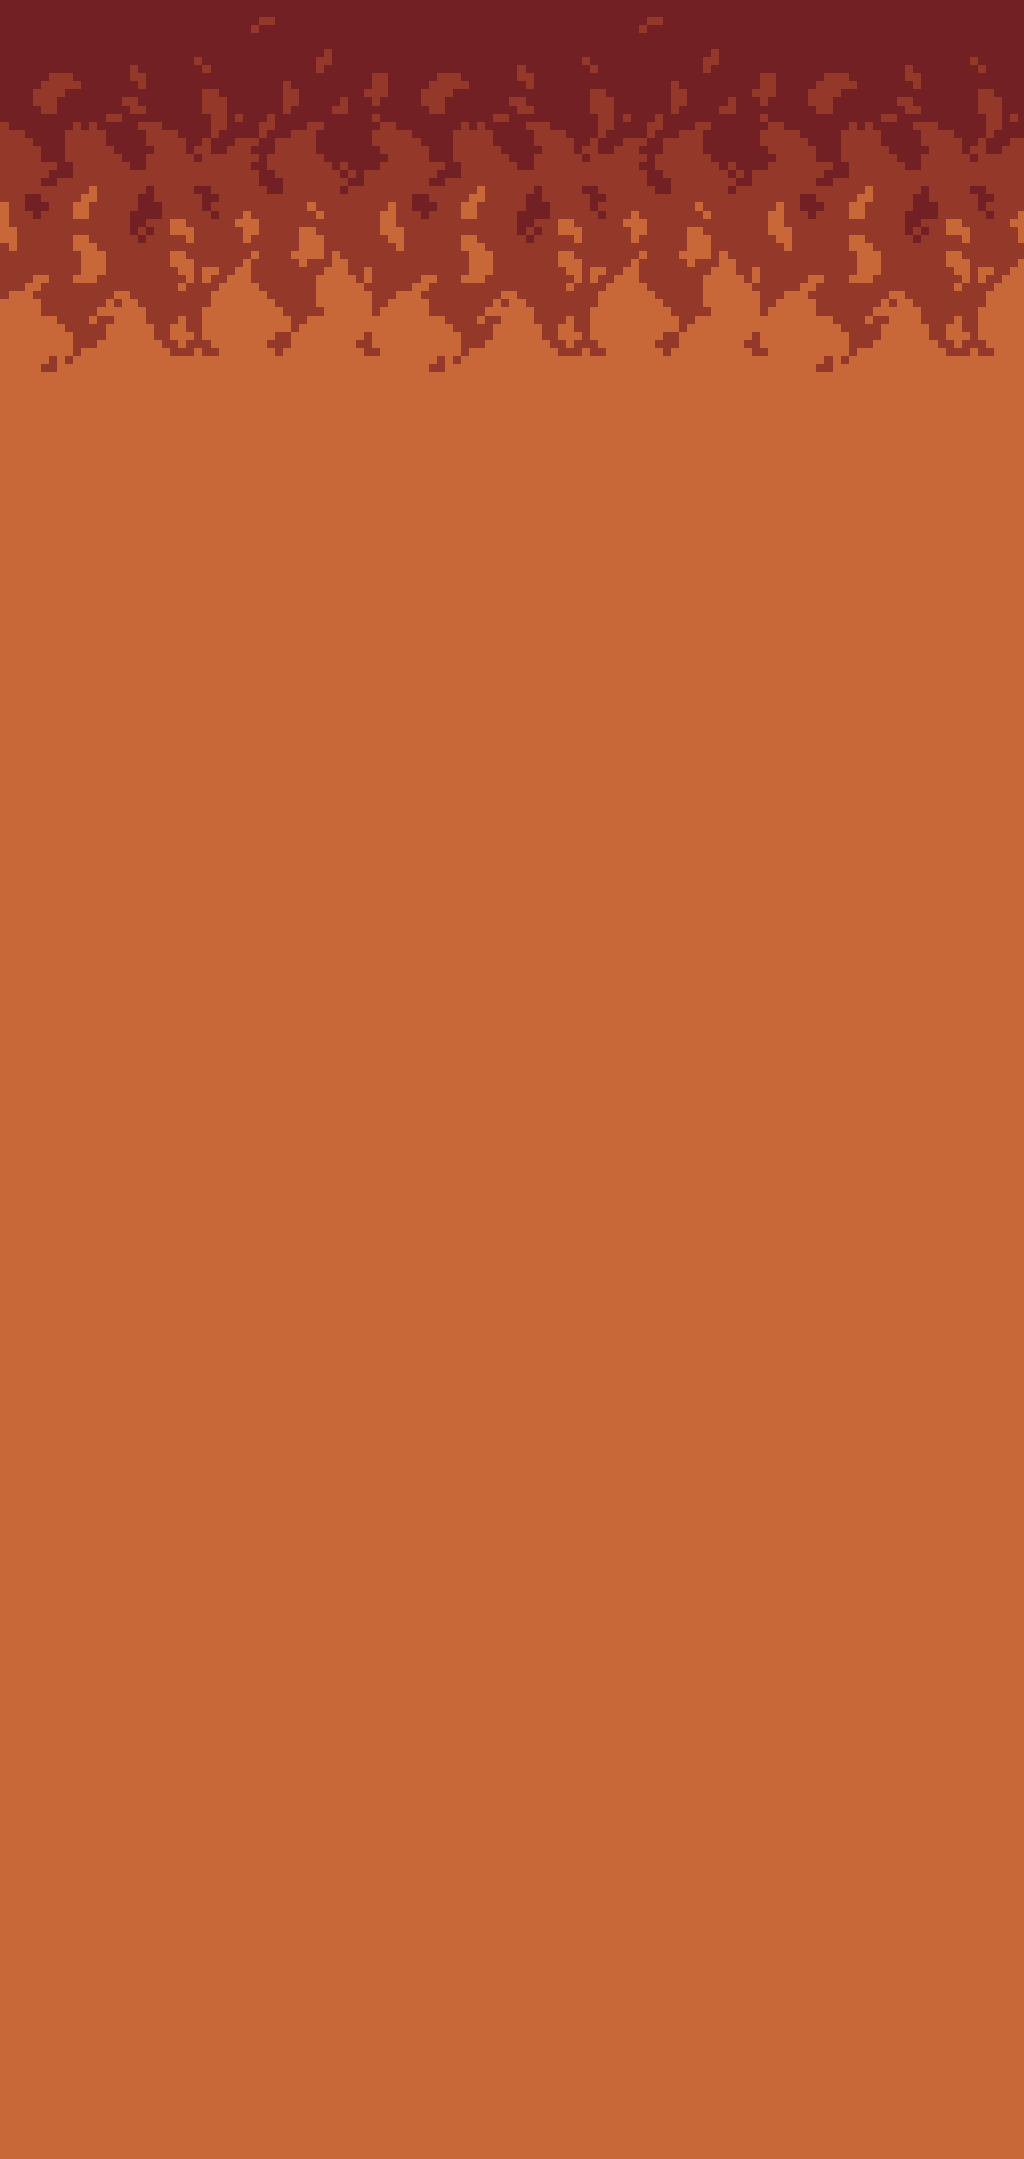
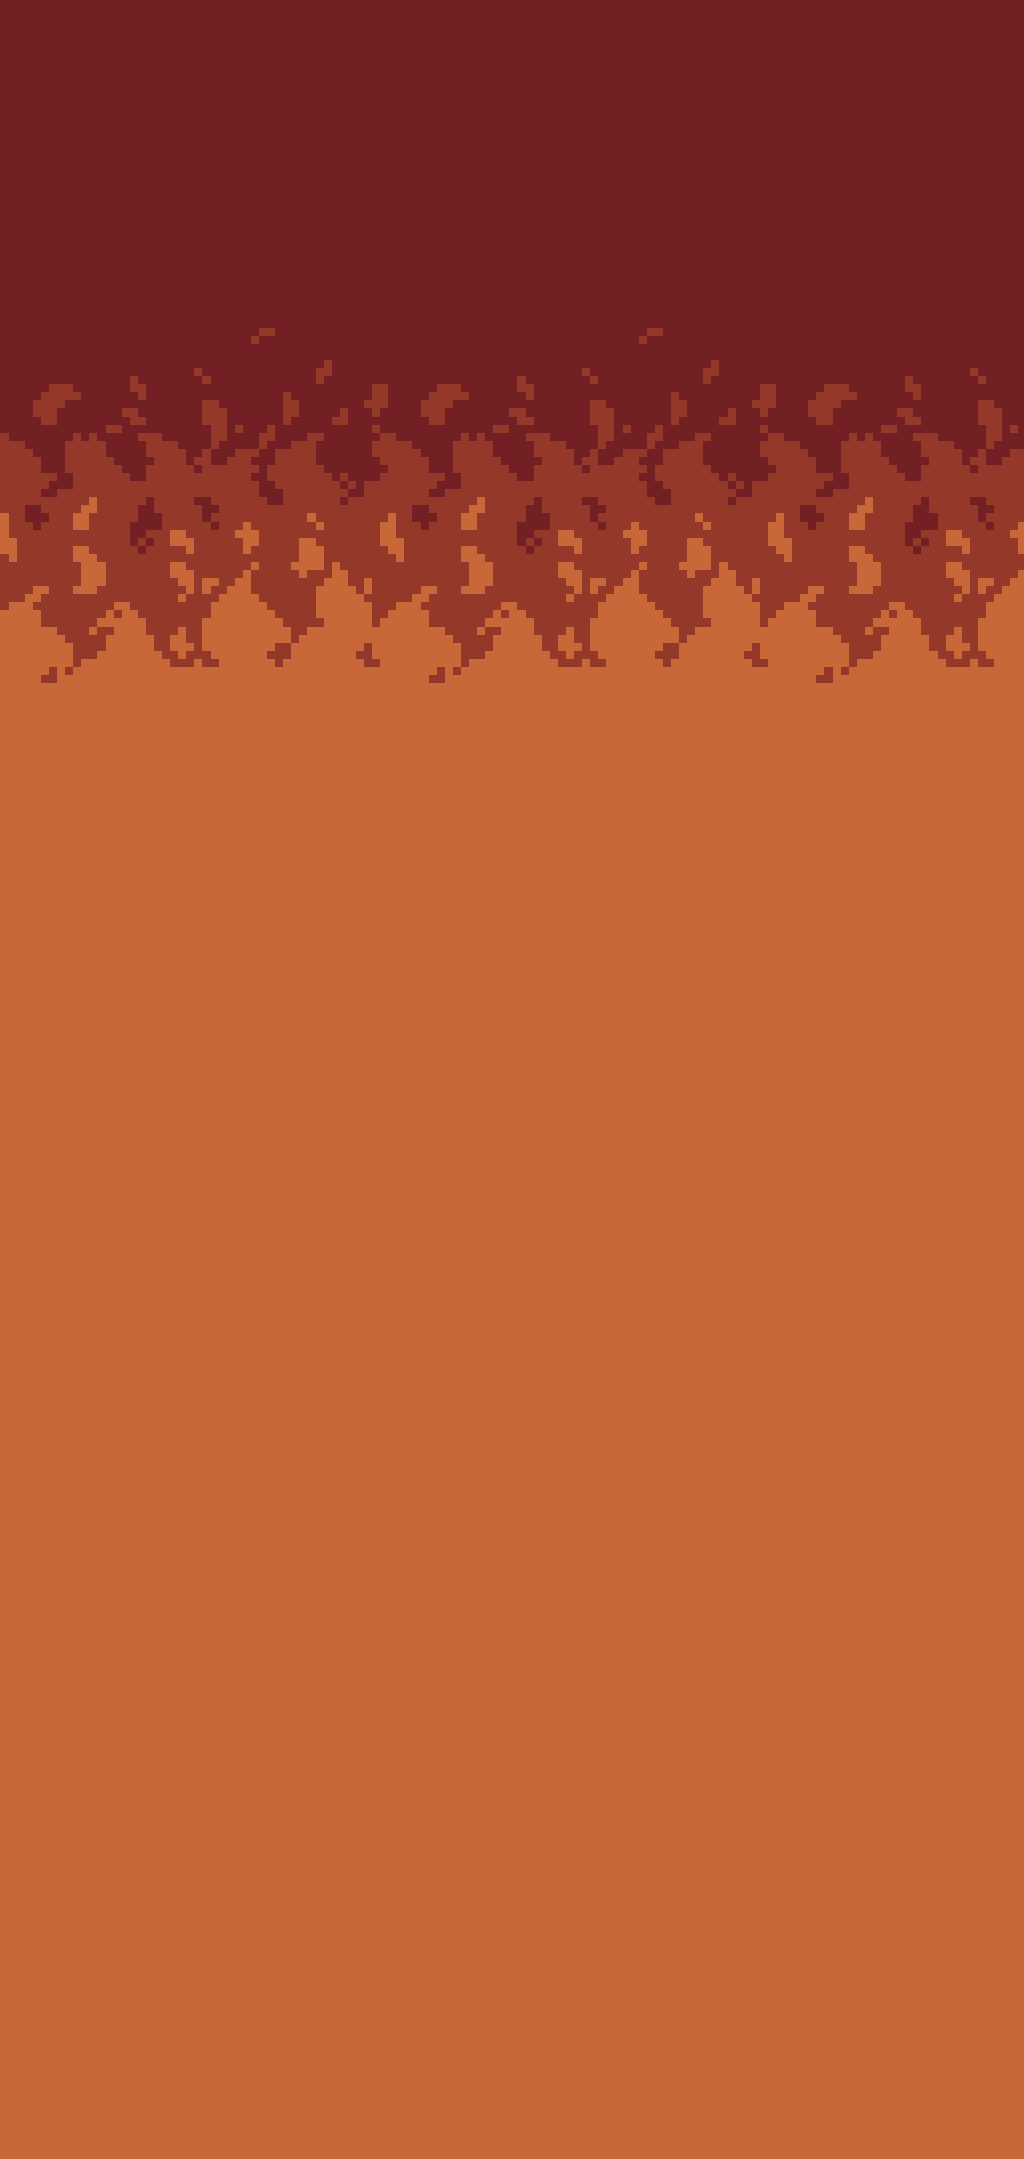
tweaks and fixes

Changed region(s): [[0.0, 0.031, 1.0, 0.3103]]

diff --git a/assets/css/beautifuljekyll.css b/assets/css/beautifuljekyll.css
@@ -30,7 +30,6 @@ body {
   {% if site.page-img %}
   background-image: url({{ site.page-img | relative_url }});
   background-repeat: repeat-x;
-  background-color: #536ed4;
   {% endif %}
 }
 p {
@@ -811,7 +810,7 @@ nav.top-nav-short-permanent ~ header > .intro-header.big-img {
   font-weight: 800;
   letter-spacing: 1px;
   padding: 0.625rem 0.3125rem;
-  background-color: #FFF;
+  background-color: black;
   border-radius: 0;
   color: {{ site.text-col | default: "#404040" }};
 }

diff --git a/index.html b/index.html
@@ -9,8 +9,4 @@ Welcome to Team Draco!
   many more on the way. We hope you enjoy the mods we make!
 </p>
 
-<div style="scale: 125%; image-rendering: crisp-edges;">
-  <a href="https://discord.teamdraco.net"><img src="/assets/img/discord.png"></a>&nbsp;&nbsp;
-  <a href="https://patreon.com/{{ site.social-network-links.patreon }}"><img src="/assets/img/patreon.png"></a>
-</div>
 <br>

diff --git a/_includes/header.html b/_includes/header.html
@@ -54,7 +54,6 @@
     <div class="row">
       <div class="col-xl-8 offset-xl-2 col-lg-10 offset-lg-1">
         <div class="{{ include.type }}-heading">
-          <div style="line-height: 80px;"><br></div>
           <h1>{% if page.title %}{{ page.title }}{% else %}<br/>{% endif %}</h1>
 
           {% if include.type == "post" %}

diff --git a/_layouts/home.html b/_layouts/home.html
@@ -5,7 +5,7 @@ layout: page
 <div class="no-highlight">
   <center>{{ content }}</center>
 
-  <hr style="color: rgba(255, 255, 255, 0.445);">
+  <hr>
 
   {% assign posts = paginator.posts | default: site.posts %}
 
@@ -89,4 +89,6 @@ layout: page
     {% endif %}
   </ul>
   {% endif %}
+
+  <br>
 </div>

diff --git a/_layouts/post.html b/_layouts/post.html
@@ -2,6 +2,8 @@
 layout: base
 ---
 
+<br style="line-height: 10px;">
+
 {% include header.html type="post" %}
 
 <div class="{% if page.full-width %} container-fluid {% else %} container-md {% endif %}">

diff --git a/_layouts/page.html b/_layouts/page.html
@@ -17,8 +17,6 @@ layout: base
         </div>
       {% endif %}
 
-      <br>
-      <br>
       {{ content }}
 
       {% if page.after-content %}
